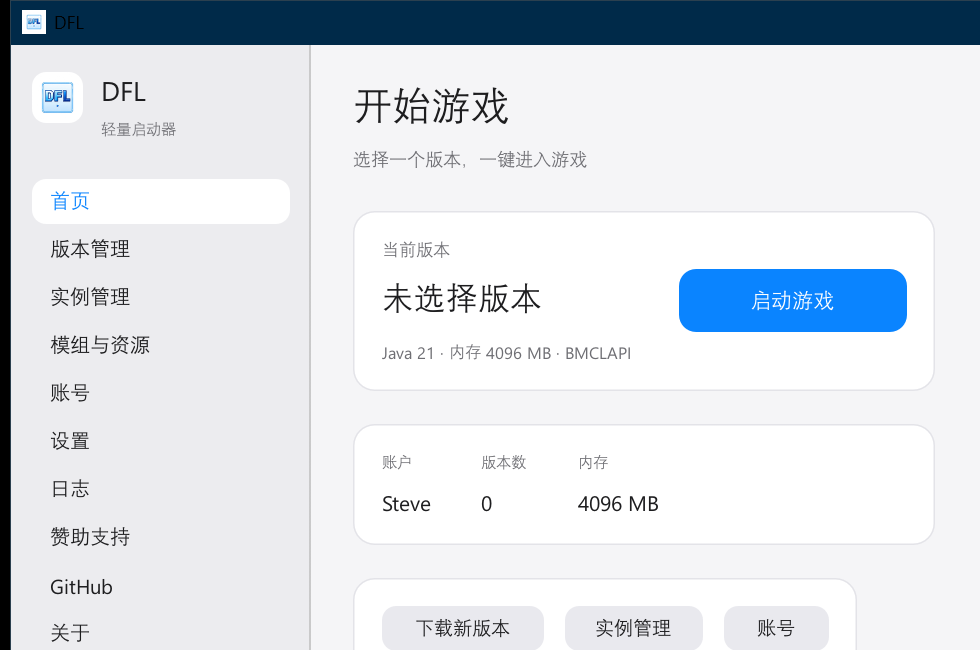
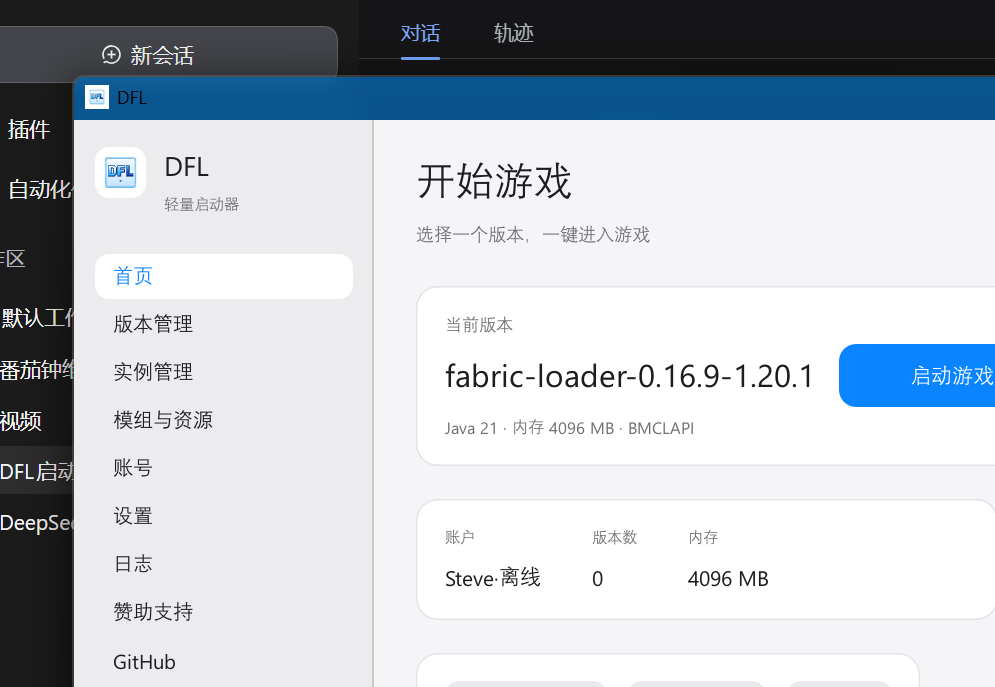
feat: 首页角色一键切换、微软登录标注暂不可用（需银行卡验证的 Azure）、窗口高度与间距调整

diff --git a/src/app.rs b/src/app.rs
@@ -442,10 +442,10 @@ impl eframe::App for LauncherApp {
         let p = self.p();
         egui::CentralPanel::default()
             .frame(egui::Frame::NONE.fill(p.bg).inner_margin(egui::Margin {
-                left: 28,
-                right: 28,
-                top: 24,
-                bottom: 16,
+                left: 26,
+                right: 26,
+                top: 16,
+                bottom: 12,
             }))
             .show(ctx, |ui| match self.page {
                 Page::Home => self.page_home(ui),
@@ -515,10 +515,23 @@ impl LauncherApp {
         let stats = [
             (
                 "账户",
-                if self.config.username.is_empty() {
-                    "Steve".to_string()
-                } else {
-                    self.config.username.clone()
+                match self.accounts.active_account() {
+                    Some(a) => format!(
+                        "{}·{}",
+                        a.name,
+                        match a.kind.as_str() {
+                            "microsoft" => "正版",
+                            "yggdrasil" => "外置",
+                            _ => "离线",
+                        }
+                    ),
+                    None => {
+                        if self.config.username.is_empty() {
+                            "Steve·离线".to_string()
+                        } else {
+                            format!("{}·离线", self.config.username)
+                        }
+                    }
                 },
             ),
             ("版本数", format!("{}", self.versions.len())),
@@ -541,6 +554,7 @@ impl LauncherApp {
         });
 
         ui.add_space(14.0);
+        let mut switch_id: Option<String> = None;
         let mut go_versions = false;
         let mut go_instances = false;
         let mut go_accounts = false;
@@ -558,7 +572,57 @@ impl LauncherApp {
                     go_accounts = true;
                 }
             });
+            ui.add_space(8.0);
+            ui.horizontal(|ui| {
+                ui.label(RichText::new("角色").size(10.5).color(p.sub));
+                let current = self
+                    .accounts
+                    .active_account()
+                    .map(|a| a.name.clone())
+                    .unwrap_or_else(|| {
+                        if self.config.username.is_empty() {
+                            "Steve".to_string()
+                        } else {
+                            self.config.username.clone()
+                        }
+                    });
+                egui::ComboBox::from_id_salt("home_account")
+                    .selected_text(RichText::new(current).size(12.0))
+                    .width(120.0)
+                    .show_ui(ui, |ui| {
+                        let list = self.accounts.accounts.clone();
+                        if list.is_empty() {
+                            ui.label("还没有账号");
+                        }
+                        for a in &list {
+                            let label = format!(
+                                "{} · {}",
+                                a.name,
+                                match a.kind.as_str() {
+                                    "microsoft" => "正版",
+                                    "yggdrasil" => "外置",
+                                    _ => "离线",
+                                }
+                            );
+                            if ui.selectable_label(false, label).clicked() {
+                                switch_id = Some(a.id.clone());
+                            }
+                        }
+                    });
+                if ui.add(ghost_button(&p, "添加", 54.0)).clicked() {
+                    go_accounts = true;
+                }
+            });
         });
+        if let Some(id) = switch_id {
+            self.accounts.active = Some(id.clone());
+            if let Some(a) = self.accounts.accounts.iter().find(|a| a.id == id) {
+                self.config.username = a.name.clone();
+            }
+            let _ = self.accounts.save();
+            let _ = self.config.save();
+            self.notify("已切换角色");
+        }
         if start {
             self.start_game();
         }
@@ -1006,18 +1070,13 @@ impl LauncherApp {
                         }
                         1 => {
                             ui.label(
-                                RichText::new("前提：该微软账号已购买 Minecraft Java 版，或已开通 PC Game Pass")
+                                RichText::new("暂不可用：需要 Azure 客户端 ID（注册要验证银行卡），建议直接用离线登录")
                                     .size(10.0)
-                                    .color(p.sub),
+                                    .color(Color32::from_rgb(255, 149, 0)),
                             );
-                            ui.add_space(4.0);
-                            if ui
-                                .add(ghost_button(&p, "没买？去官网看看", 118.0))
-                                .clicked()
-                            {
-                                util::open_url(
-                                    "https://www.minecraft.net/zh-hans/store/minecraft-java-bedrock-edition-pc",
-                                );
+                            ui.add_space(6.0);
+                            if ui.add(ghost_button(&p, "改用离线登录", 104.0)).clicked() {
+                                self.acc_tab = 0;
                             }
                             ui.add_space(8.0);
                             ui.label(

diff --git a/src/main.rs b/src/main.rs
@@ -102,7 +102,7 @@ fn main() -> eframe::Result<()> {
     }
 
     let mut viewport = egui::ViewportBuilder::default()
-        .with_inner_size([980.0, 650.0])
+        .with_inner_size([1000.0, 690.0])
         .with_min_inner_size([880.0, 560.0])
         .with_title(APP_NAME);
 
